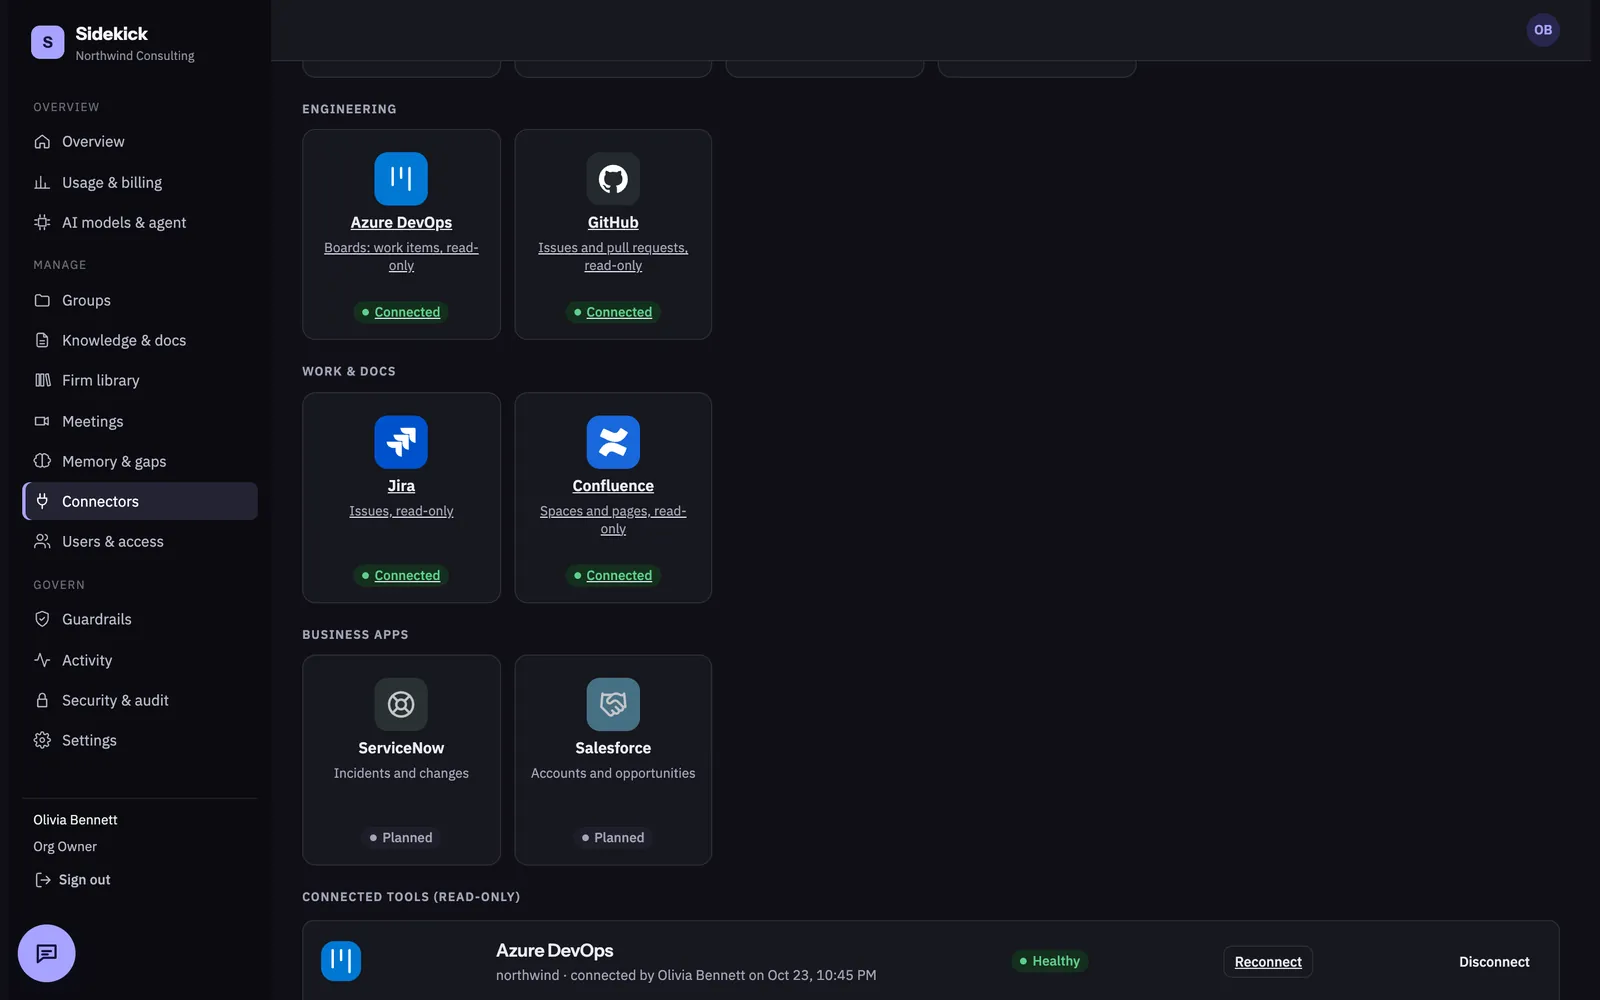
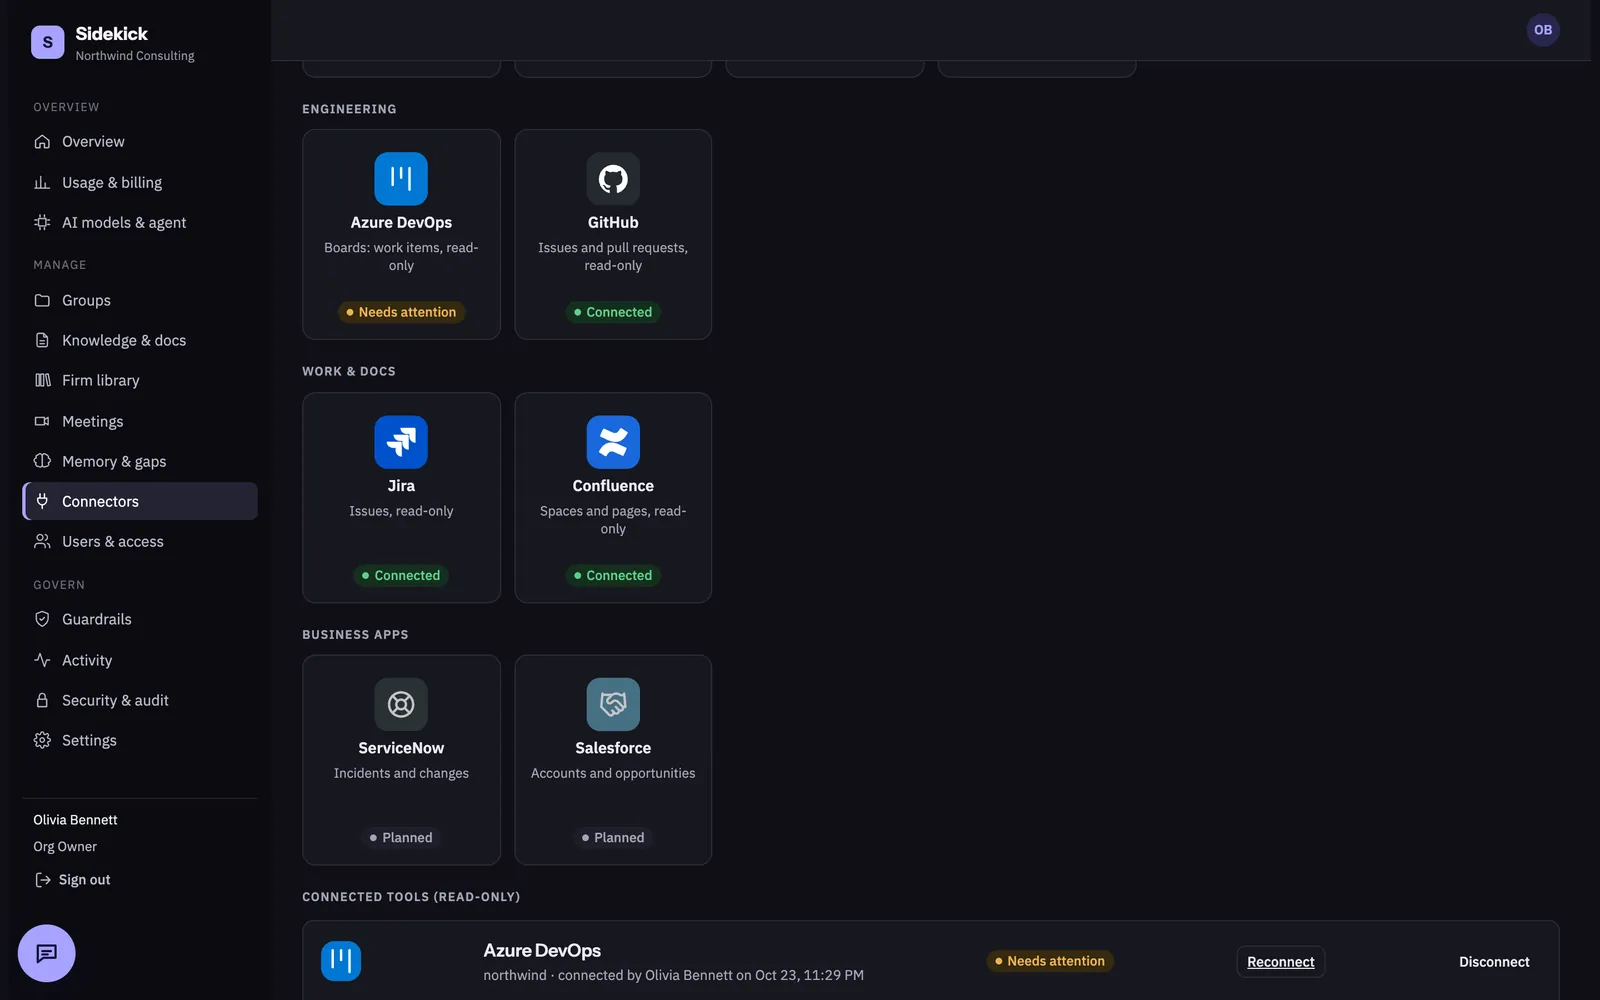
Website: retake the Connectors shots without underlined tile text (#62)
- portal-connectors(-dark).webp retaken from a fresh demo seed on current main.
- demo-shots.cjs takes shot names to retake just those.
- Alt text matches the shot (one Azure DevOps project needs attention).

diff --git a/app/src/app/(public)/features/page.tsx b/app/src/app/(public)/features/page.tsx
@@ -82,7 +82,7 @@ export default function FeaturesPage() {
                 )}
                 {g.id === "admin" && (
                   <div style={{ marginBottom: 28 }}>
-                    <ProductShot name="portal-connectors" frame="laptop" alt={`The ${BRAND.name} Connectors page: Azure DevOps, GitHub, Jira and Confluence connected read-only, business apps planned, and the connected tools with their health.`} caption="Connectors: Azure DevOps, Jira, GitHub and Confluence, read-only. Made-up example data." />
+                    <ProductShot name="portal-connectors" frame="laptop" alt={`The ${BRAND.name} Connectors page: GitHub, Jira and Confluence connected read-only, Azure DevOps connected with a project that needs attention, business apps planned, and the connected tools with their health.`} caption="Connectors: Azure DevOps, Jira, GitHub and Confluence, read-only. Made-up example data." />
                   </div>
                 )}
                 <div className="site-grid">{g.items.map((f) => <FeatureCard key={f.title} f={f} />)}</div>
